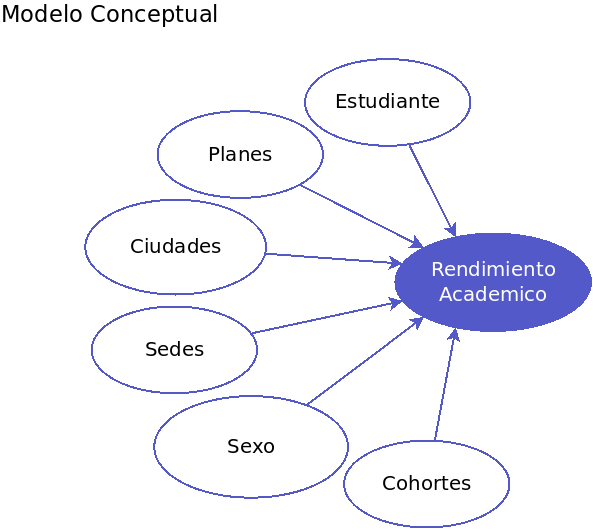
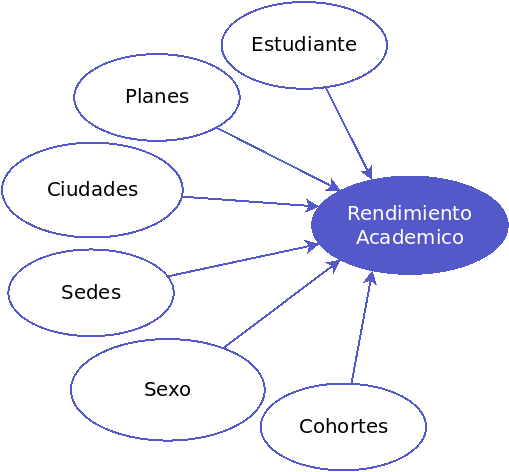
Acomodo las imagenes

diff --git a/TP03/README.md b/TP03/README.md
@@ -6,8 +6,9 @@
 ### a. b. y c.
 
 Imagen modelo conceptual y modelo ampliado
-![Modelo_Conceptual](https://i.ibb.co/xF5gVQ5/Modelo-Conceptual.png)
+![modelo_conceptual](https://raw.githubusercontent.com/AgustinNormand/bases-de-datos-masivas/main/TP03/ejercicio_1/imagenes/ModeloConceptual.png)
 
+![modelo_conceptual_ampliado](https://raw.githubusercontent.com/AgustinNormand/bases-de-datos-masivas/main/TP03/ejercicio_1/imagenes/ModeloConceptualAmpliado.png)
 
 ## 2. Ahora,  analice  la  Base  de  Datos  de  Rendimiento_Académico  del  “TP01 Definición de Procesos ETL”: 
 ### a. Su diseño, ¿corresponde a alguno de los esquemas de DW estudiados en clase? ¿A cuál?
